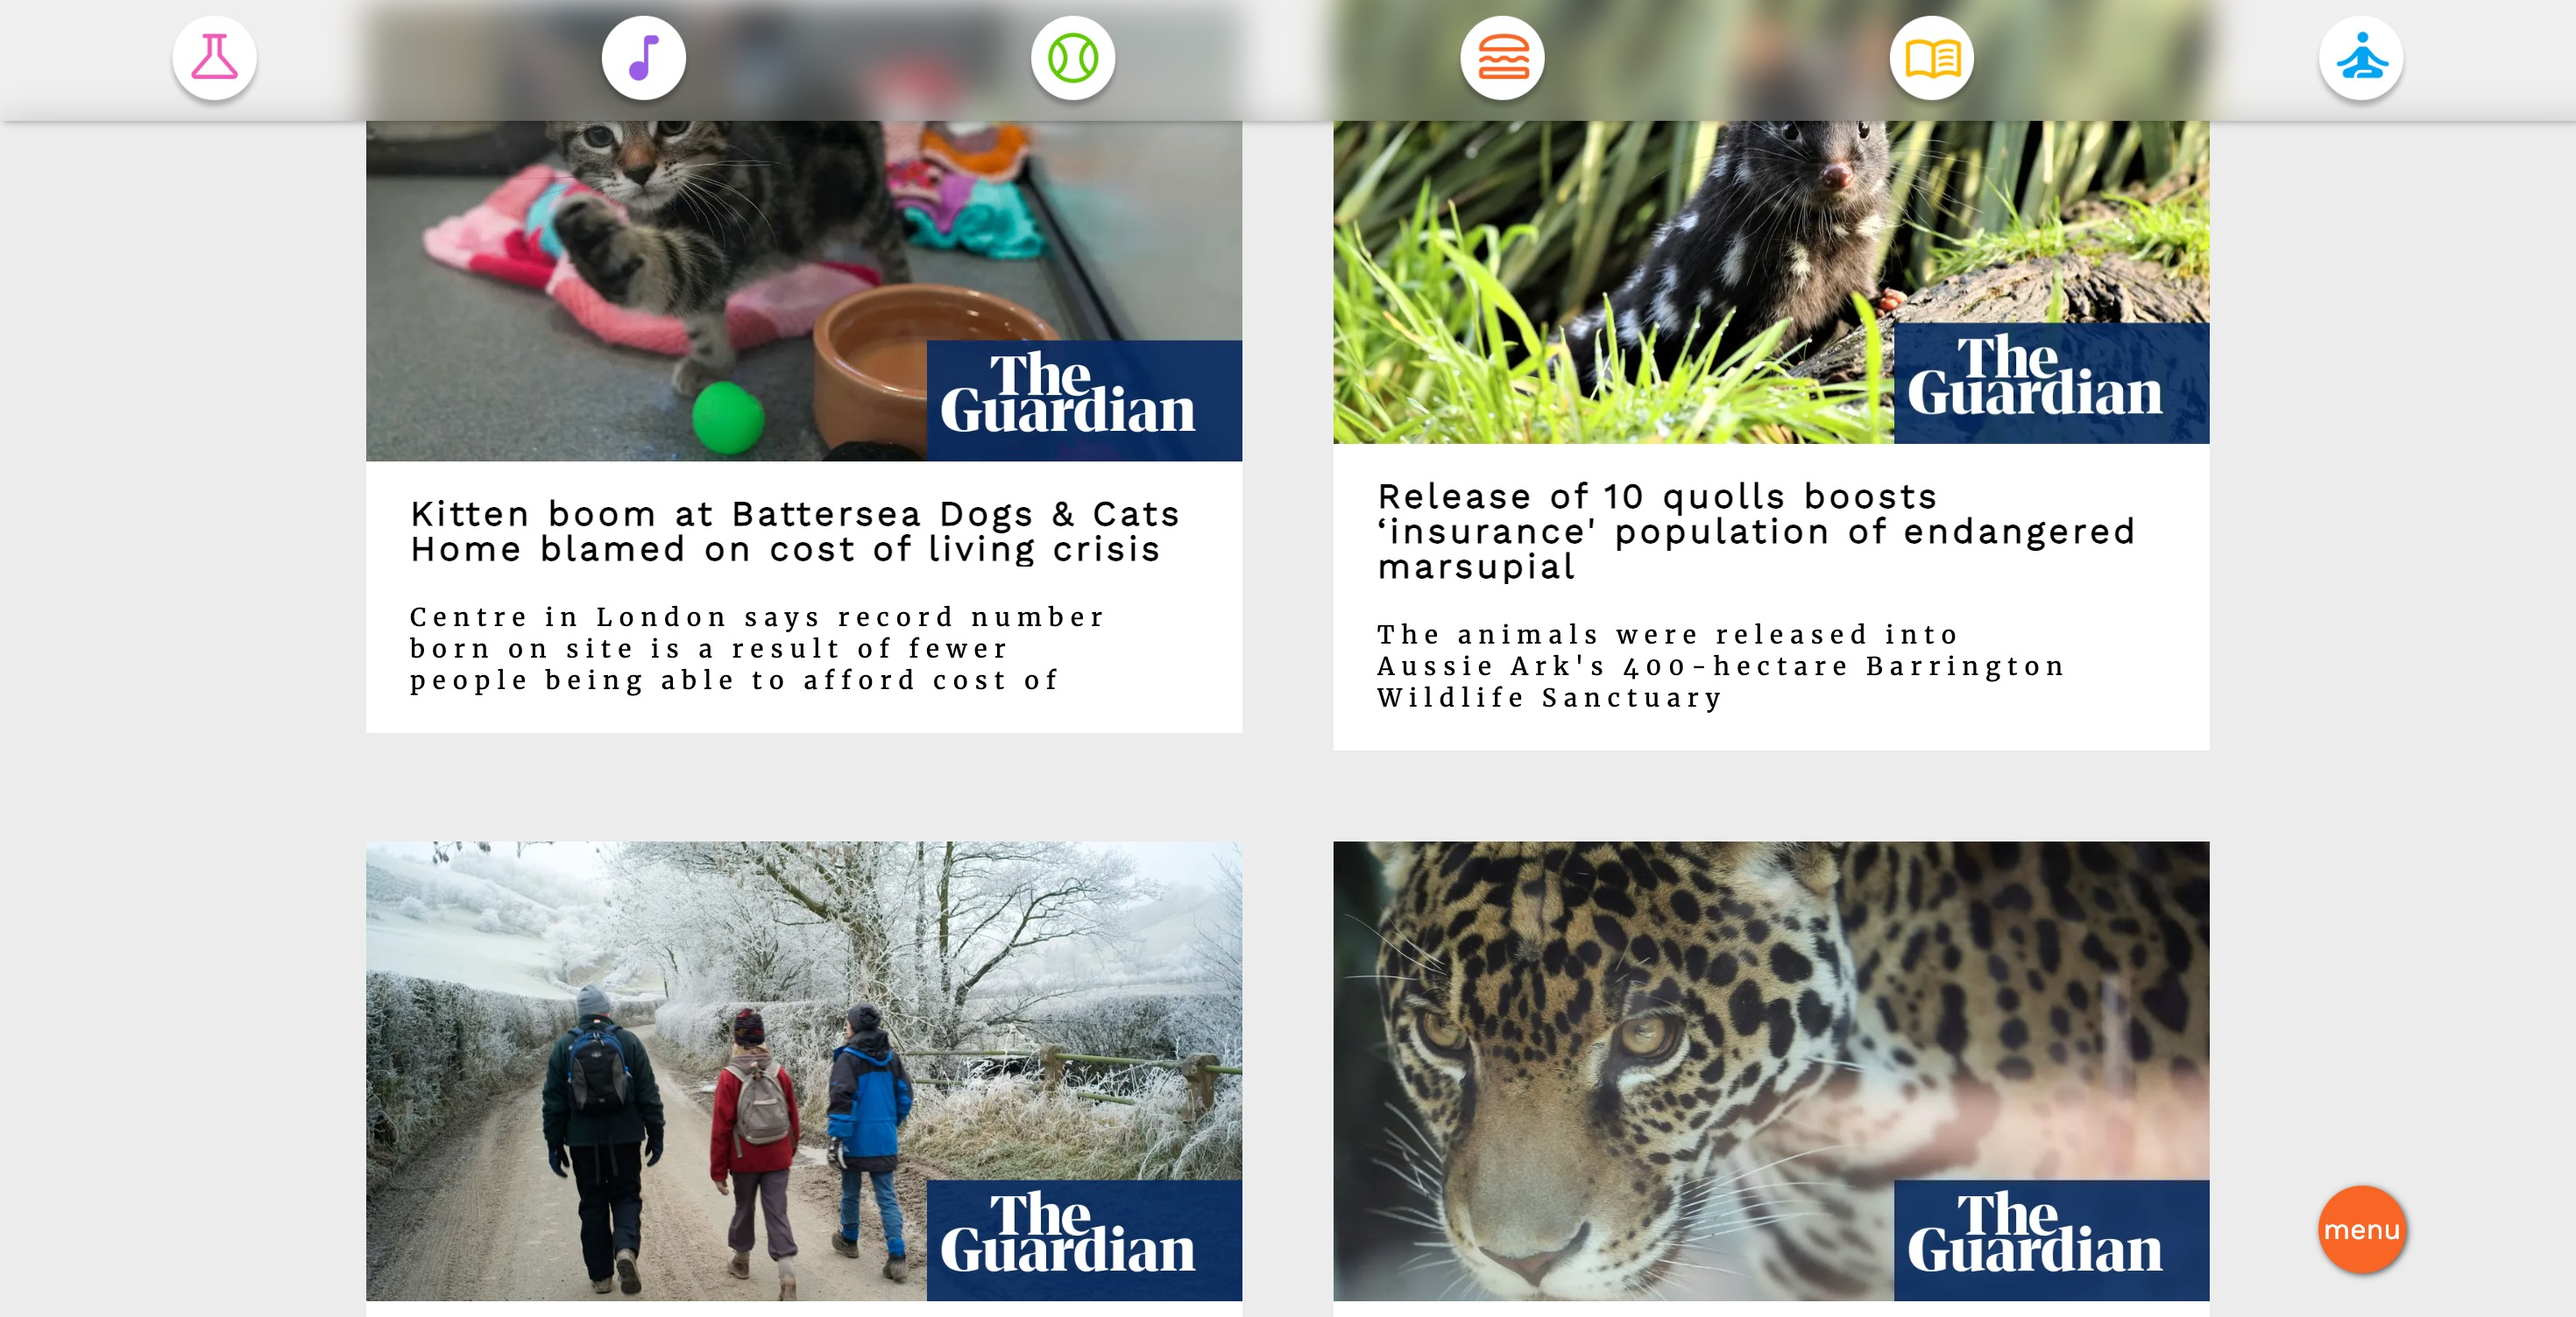
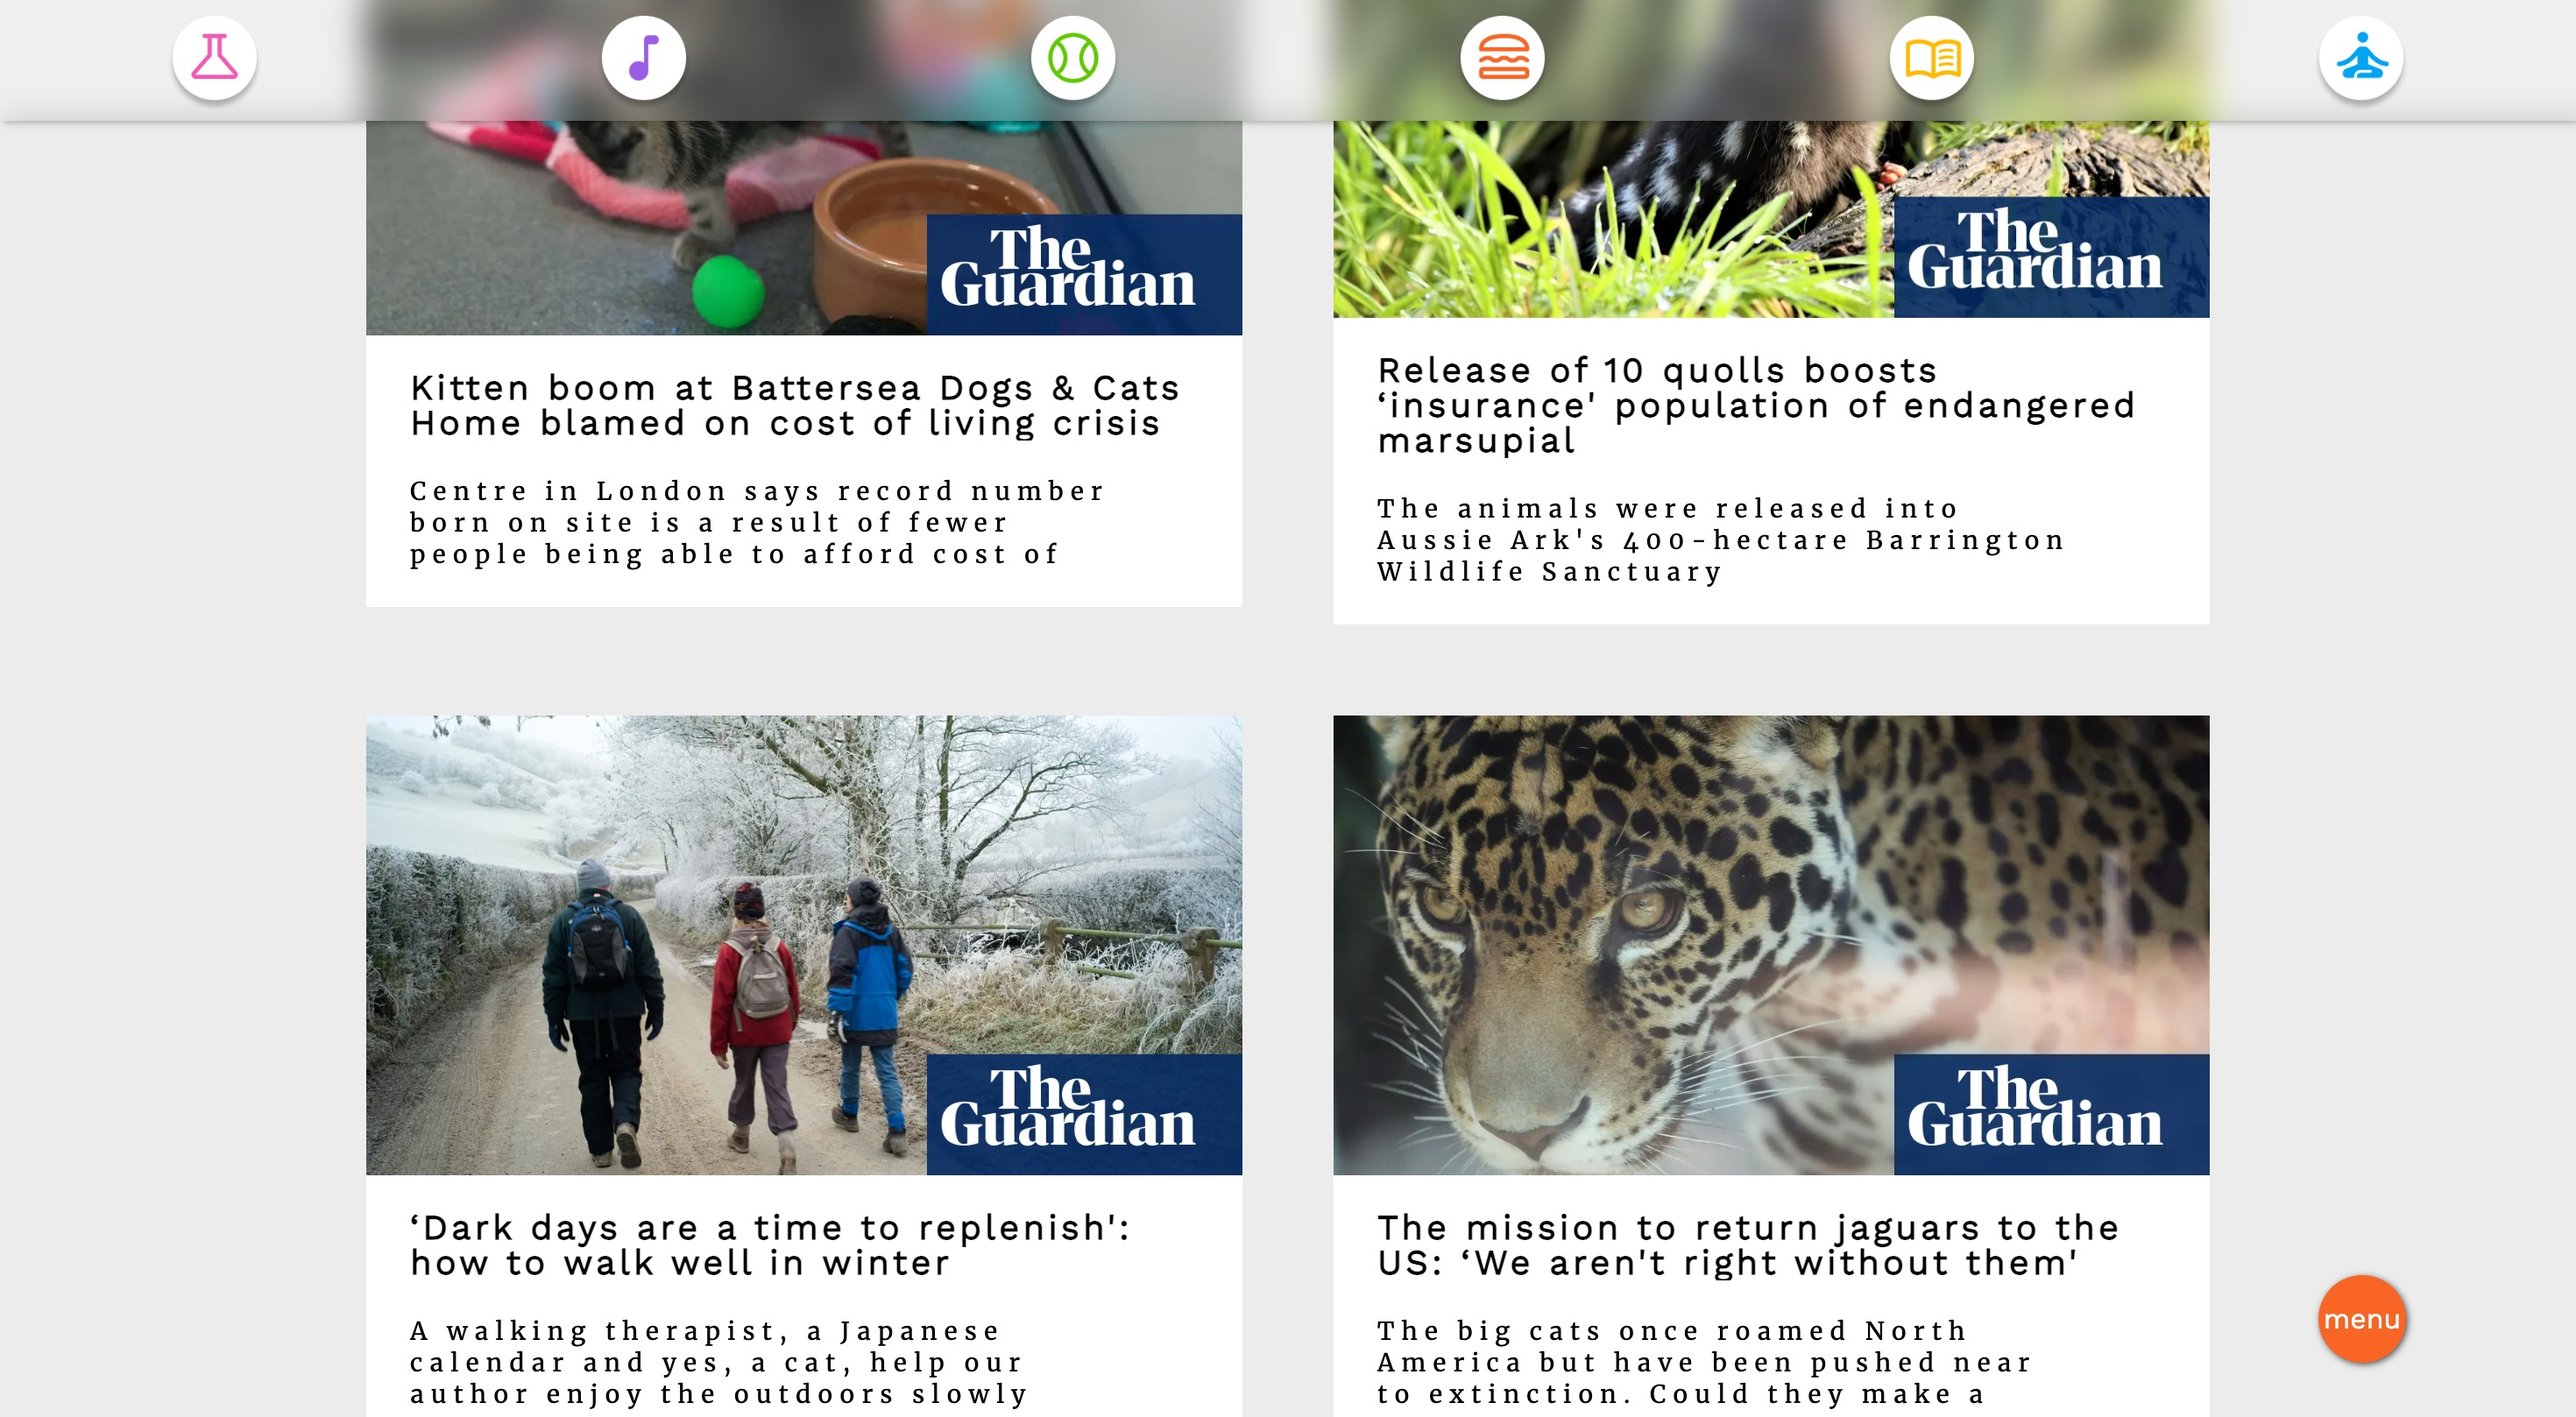
basic mobile and desktop styling added

diff --git a/src/components/ProjectCards/ProjectCards.module.css b/src/components/ProjectCards/ProjectCards.module.css
@@ -3,19 +3,20 @@
   display: flex;
   flex-direction: column;
 }
-
 .card {
   display: flex;
   flex-direction: column;
-  margin-bottom: 2rem;
+  align-items: center;
+  margin-bottom: 3rem;
 }
 .image_container {
-  width: 80vw;
+  width: 90vw;
   height: auto;
   top: 0;
   left: 0;
   display: block;
   position: relative;
+  margin: 1rem;
 }
 .image_container span {
   position: absolute;
@@ -49,8 +50,9 @@
   display: flex;
   flex-direction: column;
   align-items: flex-end;
-  grid-column: 1 / 13;
-  text-align: right;
+}
+.headline {
+  align-self: flex-start;
 }
 .featured {
   font-size: 0.8rem;
@@ -58,29 +60,76 @@
   margin-bottom: 0.5rem;
 }
 h3 {
-  margin-bottom: 1rem;
   color: var(--third-color);
 }
 .description {
   box-shadow: 0 10px 30px -15px var(--first-background);
   position: relative;
   z-index: 2;
-  padding: 2rem;
+  padding: 1rem;
+  width: 90vw;
   background-color: var(--second-background);
-  display: block;
 }
 .tags {
   display: flex;
-
   color: var(--third-color);
+  flex-wrap: wrap;
 }
 .tags p {
-  margin: 1rem;
+  margin: auto 1rem;
+  background-color: var(--second-background);
 }
 
 @media screen and (min-width: 764px) {
+  .card {
+    display: grid;
+    grid-template-columns: repeat(12, 1fr);
+  }
   .image_container {
     width: 40vw;
-    height: 40vh;
+    grid-area: 0 / 6;
+  }
+  .image_container.left {
+    grid-area: 6 / -1;
+    grid-row: 1;
+  }
+
+  .headline {
+    grid-column: 7 / -1;
+    grid-row: 1;
+    text-align: right;
+  }
+  .headline.left {
+    grid-column: -1 / 1;
+    text-align: left;
+    grid-row: 1;
+  }
+  .infos {
+    grid-column: 5/ -1;
+    text-align: right;
+    grid-row: 1;
+  }
+
+  .infos.left {
+    grid-column: 1 /-1;
+    text-align: left;
+    grid-row: 1;
+    display: block;
+  }
+  .description {
+    width: 40vw;
+  }
+  .tags {
+    width: 50vw;
+    justify-content: flex-end;
+  }
+  .tags.left {
+    text-align: left;
+    justify-content: flex-start;
+    grid-column: 1 /-1;
+  }
+  .tags p {
+    margin: auto 1rem;
+    background-color: var(--second-background);
   }
 }

diff --git a/src/components/ProjectCards/ProjectCards.jsx b/src/components/ProjectCards/ProjectCards.jsx
@@ -13,15 +13,42 @@ function ProjectCard() {
       {projects.map((el, index) => {
         return (
           <div key={index} className={styles.card}>
-            <div className={styles.image_container}>
+            <div
+              className={
+                !(index % 2)
+                  ? `${styles.headline}`
+                  : `${styles.headline} ${styles.left}`
+              }
+            >
+              <div className={styles.featured}>featured project</div>
+              <h3>{el.name}</h3>
+            </div>
+
+            <div
+              className={
+                !(index % 2)
+                  ? `${styles.image_container}`
+                  : `${styles.image_container} ${styles.left}`
+              }
+            >
               <img src={images[index]} alt={el.name} className={styles.image} />
               <span></span>
             </div>
-            <div className={styles.infos}>
-              <div className={styles.featured}>featured</div>
-              <h3>{el.name}</h3>
+            <div
+              className={
+                !(index % 2)
+                  ? `${styles.infos}`
+                  : `${styles.infos} ${styles.left}`
+              }
+            >
               <p className={styles.description}>{el.description}</p>
-              <div className={styles.tags}>
+              <div
+                className={
+                  !(index % 2)
+                    ? `${styles.tags}`
+                    : `${styles.tags} ${styles.left}`
+                }
+              >
                 {el.tags.map((elem, index2) => {
                   return <p key={index2}>{elem}</p>;
                 })}

diff --git a/src/sections/Navigation/Navigation.jsx b/src/sections/Navigation/Navigation.jsx
@@ -4,7 +4,6 @@ import { MdClose } from "react-icons/md";
 import { FiMenu } from "react-icons/fi";
 import Button from "../../components/Button/Button";
 import Logo from "../../assets/Logo/Logo";
-import { HashLink } from "react-router-hash-link";
 
 function Navigation() {
   const [isMenuOpen, setIsMenuOpen] = useState(false);
@@ -33,7 +32,7 @@ function Navigation() {
                 className={styles.links}
                 onClick={() => setIsMenuOpen(!isMenuOpen)}
               >
-                <span className={styles.number}>01.</span> About
+                <span className={styles.number}>01.</span>About
               </a>
             </li>
             <li>

diff --git a/src/components/WorkExperiences/WorkExperiences.jsx b/src/components/WorkExperiences/WorkExperiences.jsx
@@ -29,9 +29,9 @@ function WorkExperiences() {
       </div>
       <div className={styles.details}>
         <h3 className={styles.title}>
-          {experiences[selected].name} @{" "}
+          {experiences[selected].name}{" "}
           <span className={styles.company}>
-            {experiences[selected].company}
+            @ {experiences[selected].company}
           </span>
         </h3>
         <p className={styles.duration}>{experiences[selected].duration}</p>

diff --git a/src/components/WorkExperiences/WorkExperiences.module.css b/src/components/WorkExperiences/WorkExperiences.module.css
@@ -35,7 +35,7 @@
   margin-bottom: 1rem;
 }
 .company {
-  color: var(--third-color);
+  color: var(--first-color);
 }
 
 .description {
